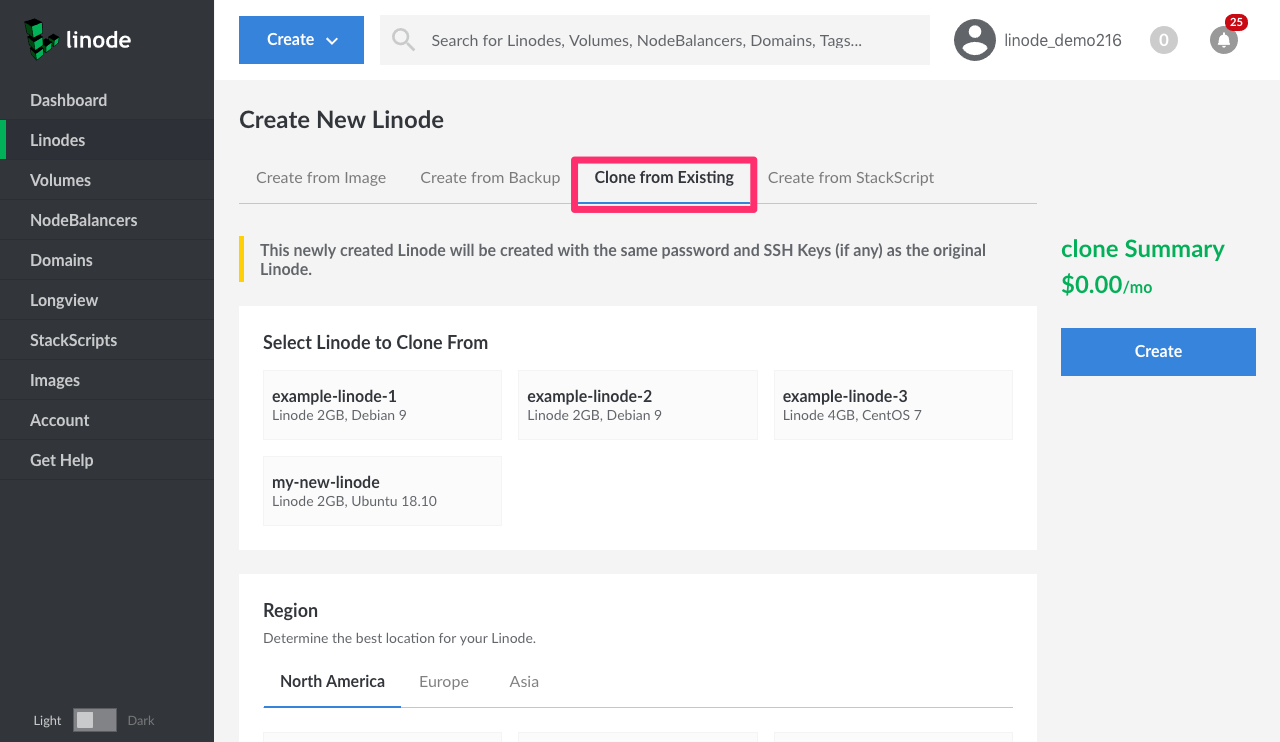
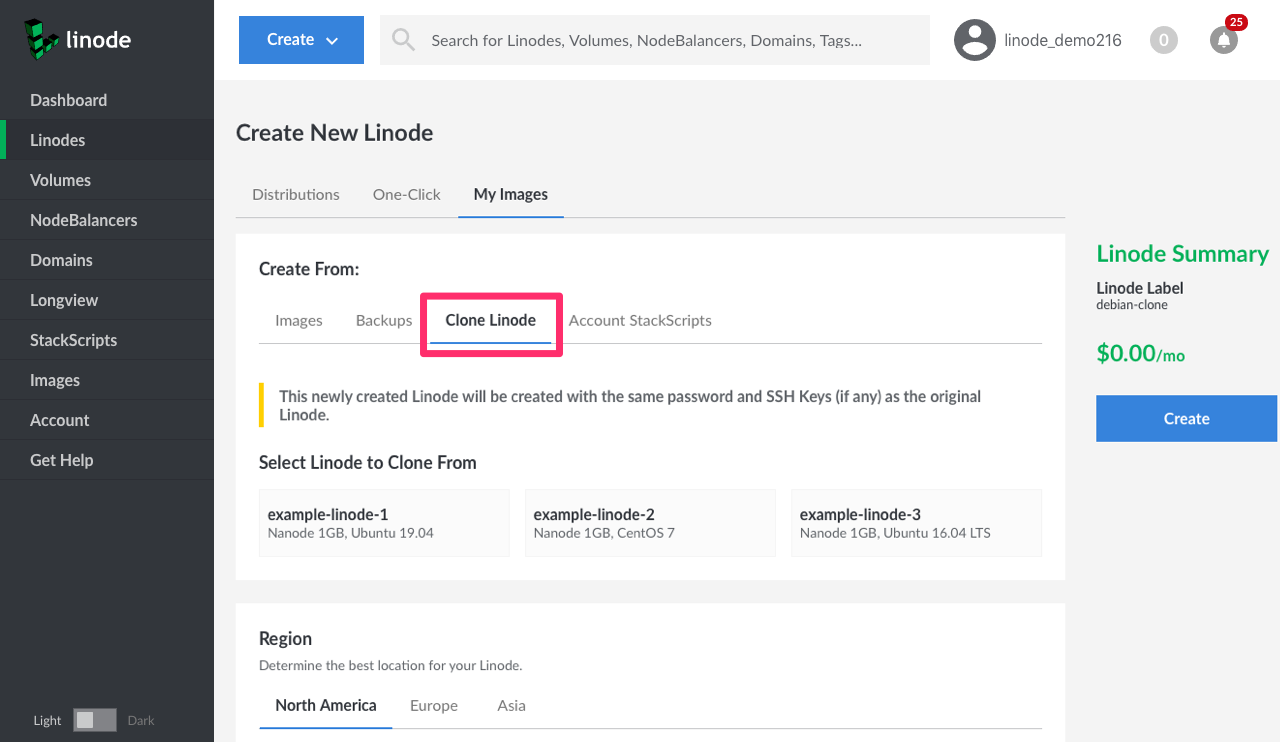
updated screenshot and text for nested clone linode menu

diff --git a/docs/platform/disk-images/clone-your-linode/index.md b/docs/platform/disk-images/clone-your-linode/index.md
@@ -25,9 +25,9 @@ This guide will show you how to clone one of your Linode’s existing [disks and
 
 1. Click **Create** at the top of the Cloud Manager and select **Linode**.
 
-1. In the **Create New Linode** form, click on the **Clone from Existing** tab:
+1. In the **Create New Linode** form, click on the **My Images** tab and then the **Clone Linode** tab:
 
-    ![Select the 'Clone from Existing' tab to clone an existing Linode.](clone-linode-menu.png)
+    ![Select the 'Clone Linode' tab to clone an existing Linode.](clone-linode-menu.png)
 
 1. Under **Select Linode to Clone From**,click on the Linode you wish to clone.
 
@@ -47,4 +47,4 @@ You will not be able to choose a plan for your clone that is smaller than the pl
 
   {{< note >}}
 You may want to swap your IP address from the Linode you originally created to your cloned Linode in order to have your clone function over the network without making any configuration changes. To complete this, you'd just need to follow this [guide](/docs/platform/manager/remote-access/#swapping-ip-addresses).
-{{</ note >}}"
+{{</ note >}}
